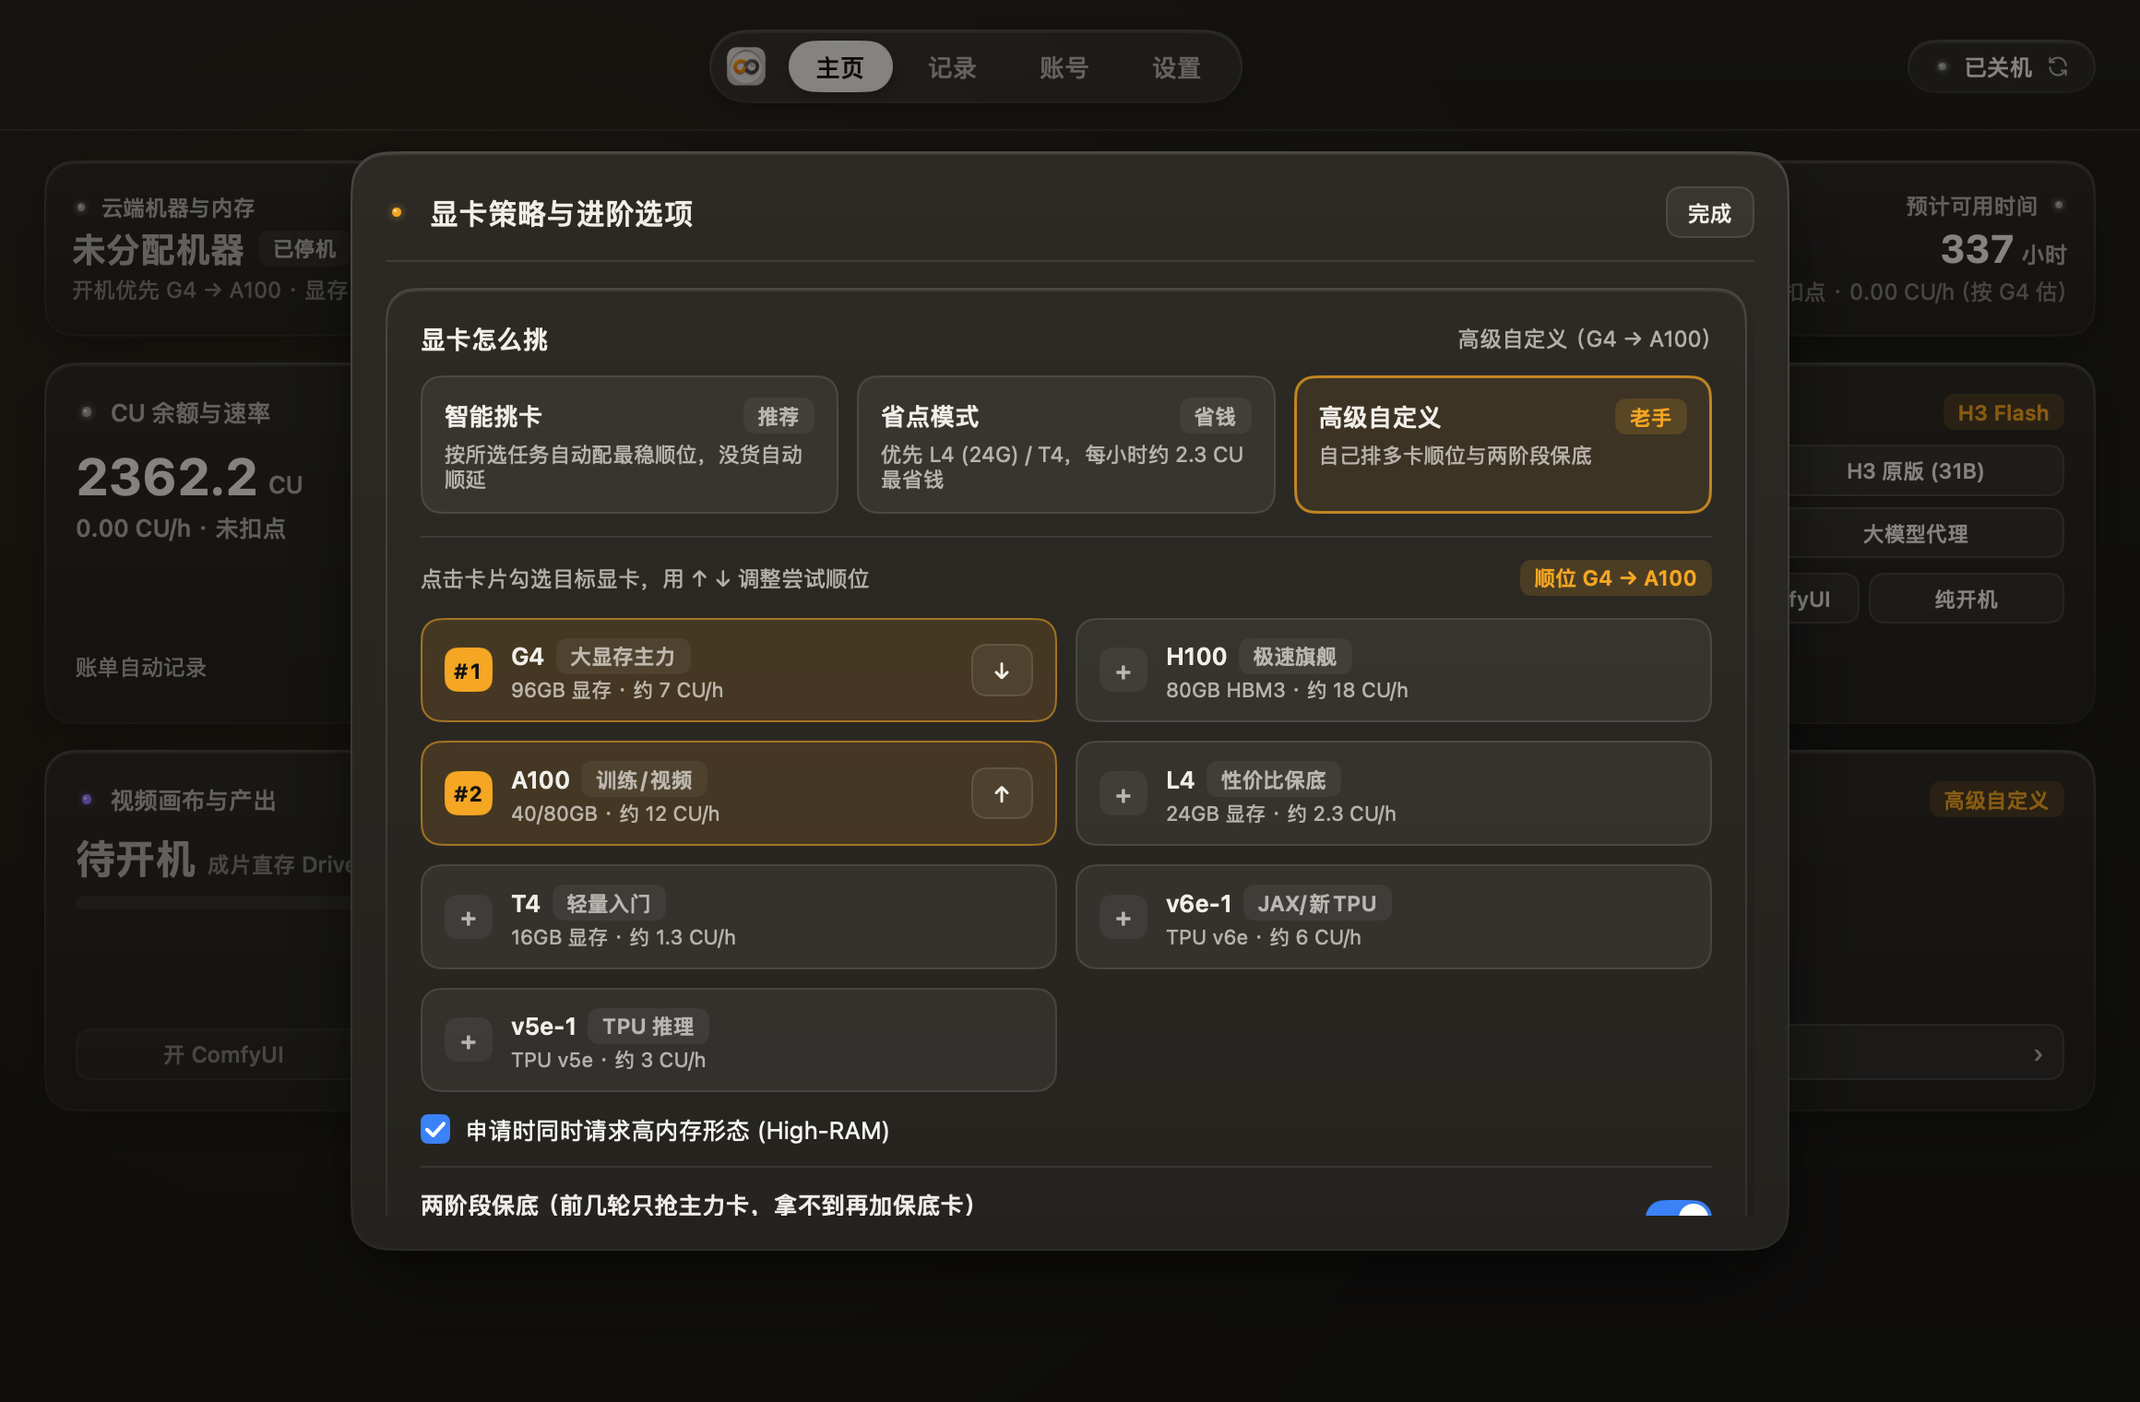
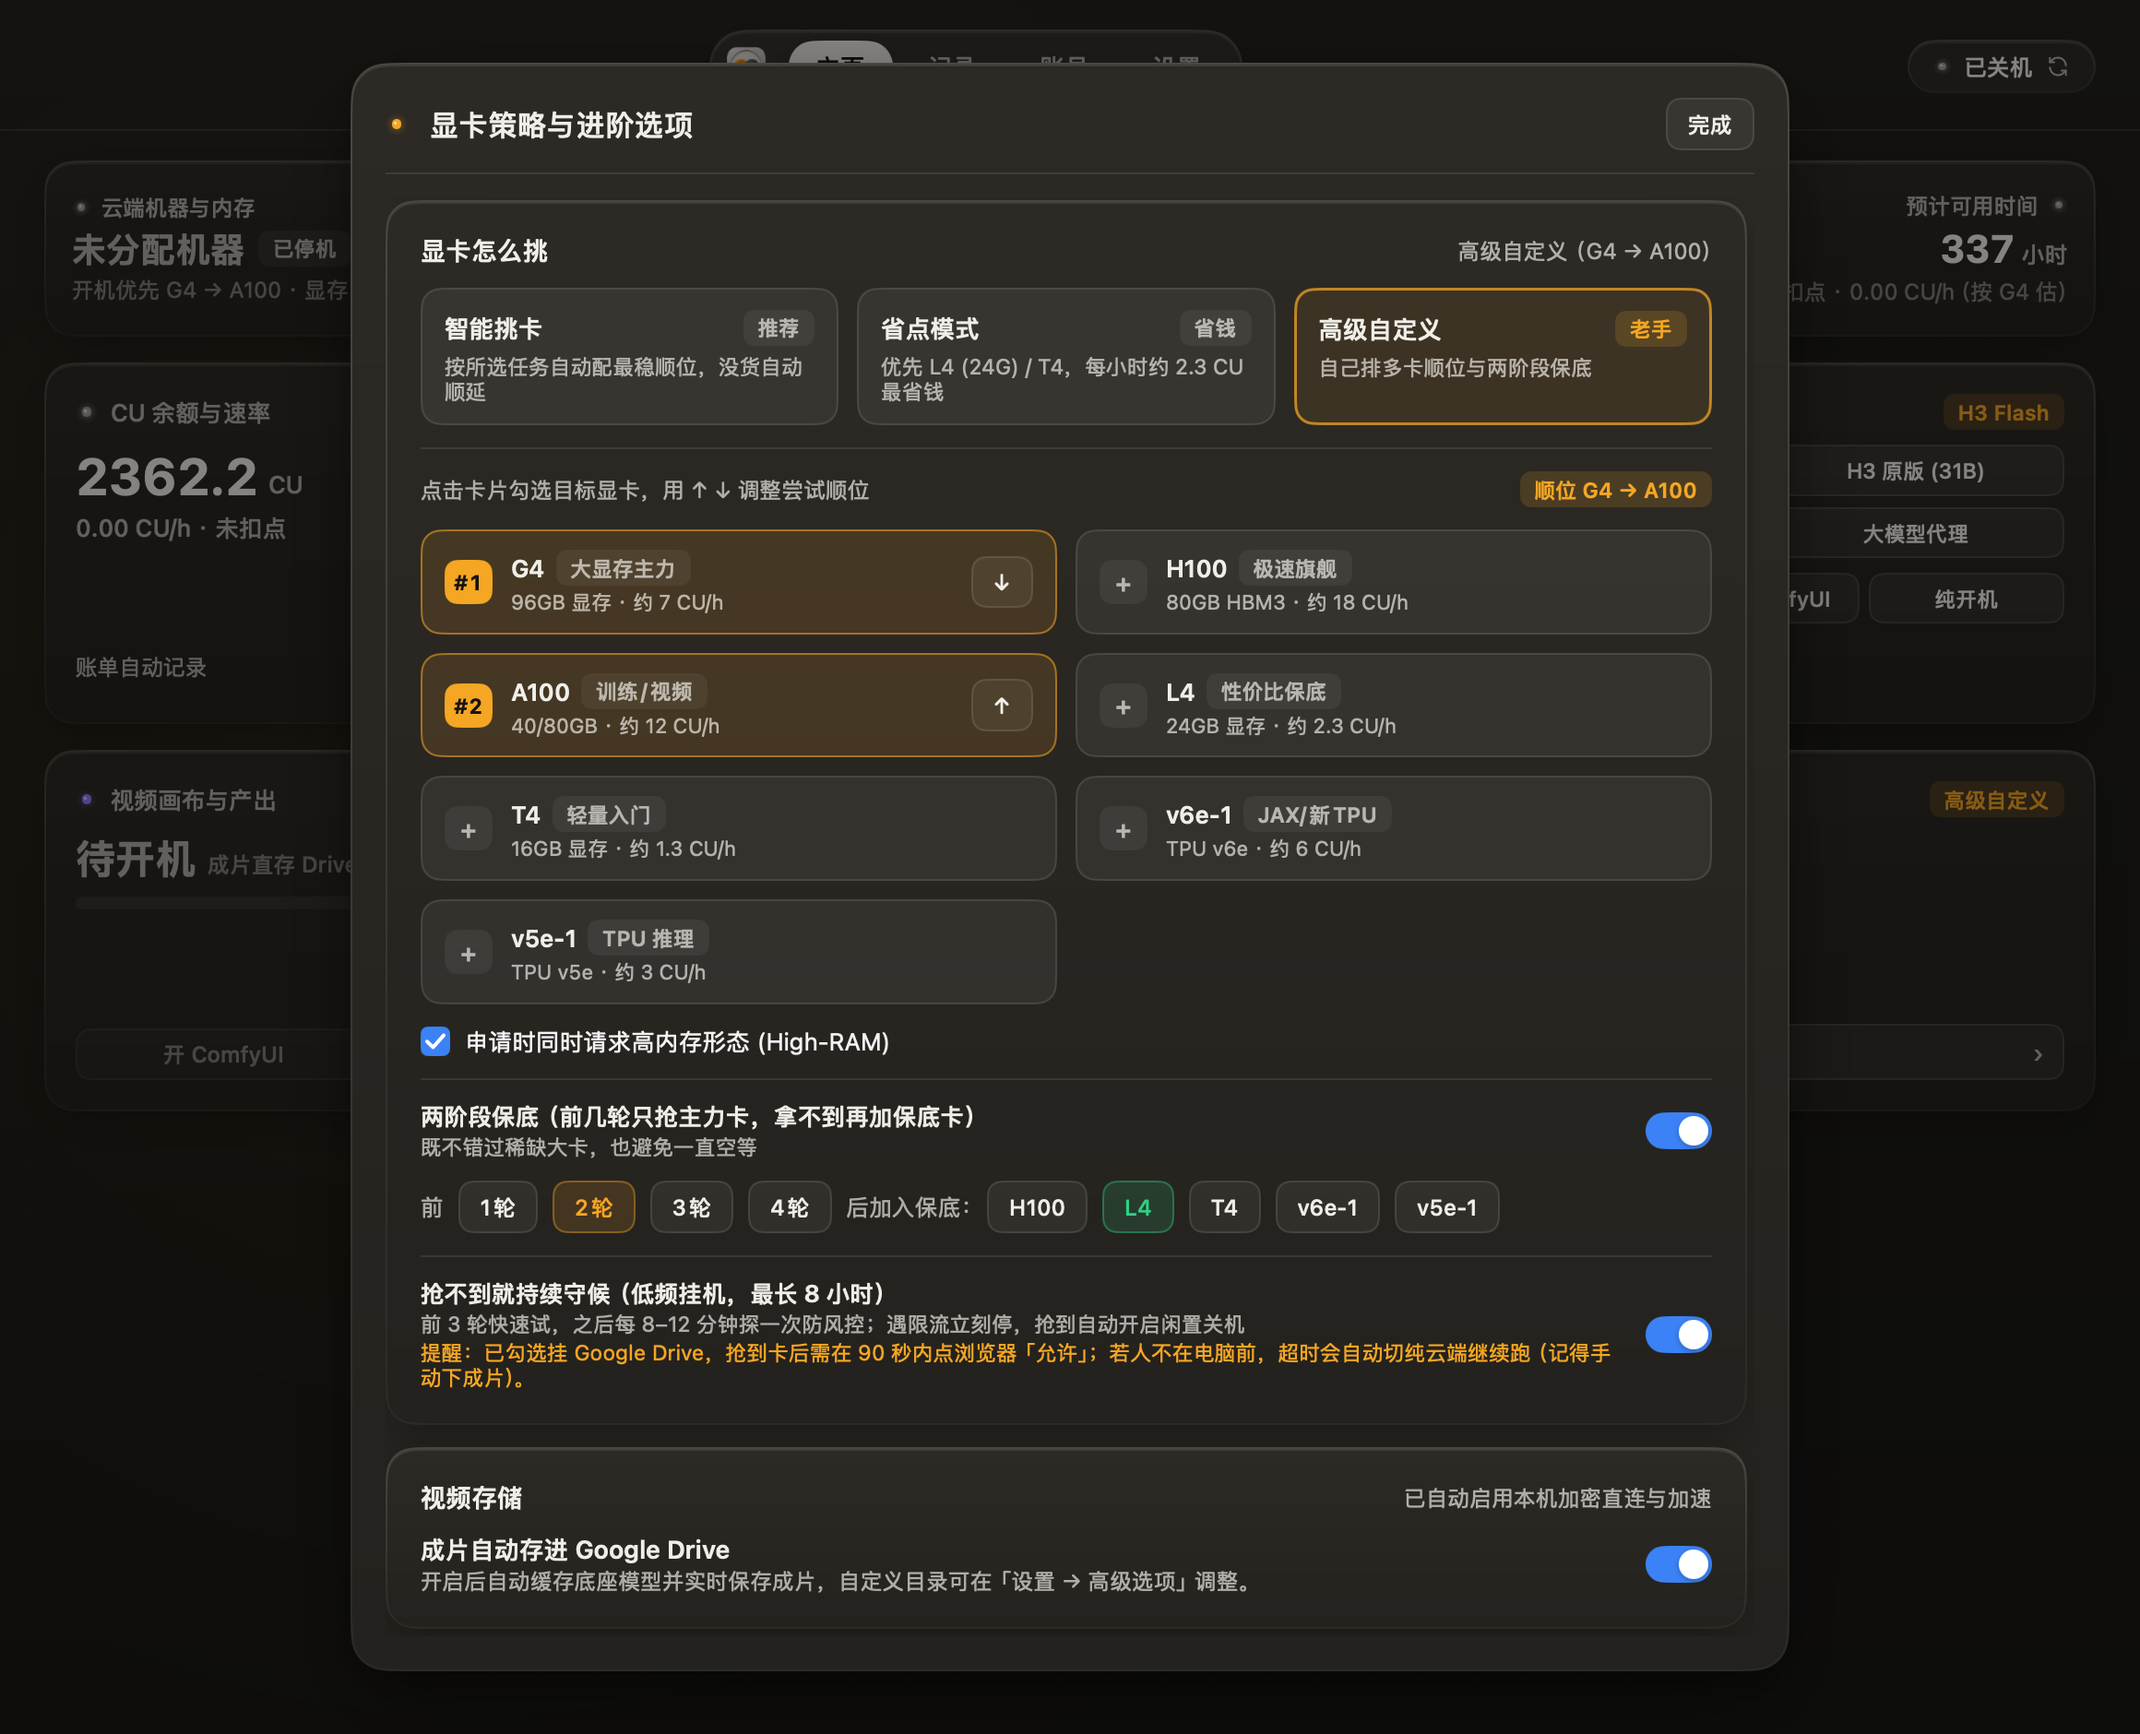
docs(images): re-export unclipped v0.3.24 showcase screenshots

diff --git a/internal/uiapp/uiapp_test.go b/internal/uiapp/uiapp_test.go
@@ -107,7 +107,6 @@ func makeDemoService(section app.MainSection, onboarding, idleHome bool) *app.Se
 	port := 8188
 	rt1.ActiveSSHTunnelPort = &port
 	rt1.DetectedServicePort = &port
-	rt1.PublicURL = "https://demo-colab-node.trycloudflare.com"
 	rt1.IdleSeconds = 0
 	rt1.ActivitySignal = core.ActivitySignal{Kind: core.SignalBusy, ObservedAt: now}
 	rt1.SignalSource = core.SignalSourceComfyQueue
@@ -821,21 +820,21 @@ func TestExportOfficialShowcasePreviews(t *testing.T) {
 		t.Skip("set COLABTOOLS_EXPORT_DIR to export official @2x screenshots")
 	}
 
-	// 1. Live running status console (dark 4x2 Bento)
+	// 1. Live running status console (dark Bento + full unified multi-account table)
 	runSvc := makeDemoService(app.SectionHome, false, false)
 	runUI := uiapp.NewMainUI(runSvc)
 	runUI.PreviewMode = true
 	runUI.ForceTheme = "dark"
-	renderPNG(t, runUI.View, 1160, 760, filepath.Join(outDir, "preview-main-status.png"))
+	renderPNG(t, runUI.View, 1160, 940, filepath.Join(outDir, "preview-main-status.png"))
 
-	// 2. Clean standby 4x2 Bento dashboard (dark, standard 1160x760)
+	// 2. Clean standby 3x2 Bento dashboard (dark, standard 1160x760)
 	idleSvc := makeDemoService(app.SectionHome, false, true)
 	idleUI := uiapp.NewMainUI(idleSvc)
 	idleUI.PreviewMode = true
 	idleUI.ForceTheme = "dark"
 	renderPNG(t, idleUI.View, 1160, 760, filepath.Join(outDir, "preview-deploy-h3.png"))
 
-	// 3. Centered Overlay options inspector over 3x2 Bento
+	// 3. Centered Overlay options inspector over 3x2 Bento (unclipped fallback + 8h persistent watch)
 	customSvc := makeDemoService(app.SectionHome, false, true)
 	cAcc := customSvc.Settings.Accounts[0]
 	cAcc.GPUStrategy = core.GPUStrategyCustom
@@ -843,14 +842,16 @@ func TestExportOfficialShowcasePreviews(t *testing.T) {
 	cAcc.QueueFallbackEnabled = true
 	cAcc.QueueFallbackAfterRounds = 2
 	cAcc.QueueFallbackTarget = core.AccL4
+	cAcc.QueuePersistentMode = true
+	cAcc.QueuePersistentMaxHours = 8
 	customSvc.Settings.Accounts[0] = cAcc
 	customUI := uiapp.NewMainUI(customSvc)
 	customUI.PreviewMode = true
 	customUI.ForceTheme = "dark"
 	customUI.ShowHomeOptions = true
-	renderPNG(t, customUI.View, 1160, 760, filepath.Join(outDir, "preview-settings-queue.png"))
+	renderPNG(t, customUI.View, 1160, 940, filepath.Join(outDir, "preview-settings-queue.png"))
 
-	// 4. Onboarding wizard
+	// 4. Onboarding wizard (2-step setup)
 	obSvc := makeDemoService(app.SectionHome, true, false)
 	obUI := uiapp.NewMainUI(obSvc)
 	obUI.PreviewMode = true
@@ -862,7 +863,7 @@ func TestExportOfficialShowcasePreviews(t *testing.T) {
 	singleSvc.Settings.Accounts = singleSvc.Settings.Accounts[:1]
 	popSingle := uiapp.NewPopoverUI(singleSvc)
 	popSingle.ForceTheme = "dark"
-	renderPNG(t, popSingle.View, 420, 620, filepath.Join(outDir, "preview-dashboard.png"))
+	renderPNG(t, popSingle.View, 420, 560, filepath.Join(outDir, "preview-dashboard.png"))
 }
 
 func TestConcurrentBackgroundMutationsAndUIRenderNoRace(t *testing.T) {

diff --git a/internal/uiapp/main_view.go b/internal/uiapp/main_view.go
@@ -203,6 +203,12 @@ func (m *MainUI) renderHomeOptionsOverlay(c *ui.Context, pal Palette) {
 			AlignItems(ui.Center).
 			Justify(ui.Center).
 			Children(func() {
+				scrollMaxH := float32(508)
+				cardMaxH := float32(596)
+				if m.PreviewMode {
+					scrollMaxH = 820
+					cardMaxH = 910
+				}
 				card := PrecisionCard(c, pal, 20, 18, func() {
 					ui.Row(c).FillWidth().AlignItems(ui.Center).Gap(12).Children(func() {
 						DrawPrecisionLED(c, pal.Amber, 12)
@@ -215,12 +221,12 @@ func (m *MainUI) renderHomeOptionsOverlay(c *ui.Context, pal Palette) {
 
 					ui.Box(c).FillWidth().Height(1).Background(pal.Divider)
 
-					ui.Scroll(c).FillWidth().Grow(1).MaxHeight(508).Children(func() {
+					ui.Scroll(c).FillWidth().Grow(1).MaxHeight(scrollMaxH).Children(func() {
 						ui.Column(c).FillWidth().Gap(12).Padding(2, 4, 4, 0).Children(func() {
 							m.renderHomeOptionsDrawer(c, pal, acc, rt)
 						})
 					})
-				}).Width(780).MaxHeight(596).Gap(12).
+				}).Width(780).MaxHeight(cardMaxH).Gap(12).
 					Shadow(0, 20, 50, -8, ui.RGBA(0, 0, 0, 0.42))
 				_ = card
 			})
